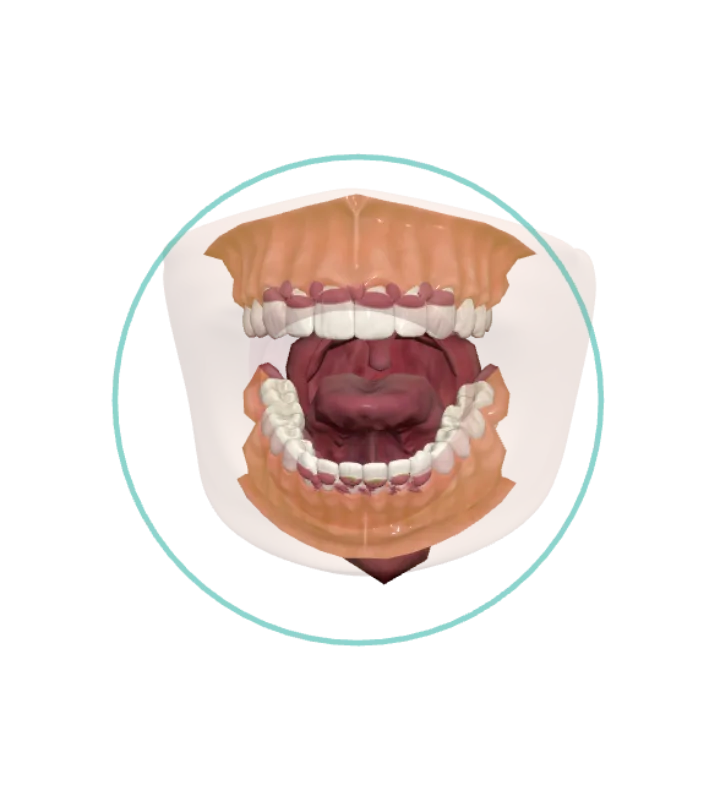
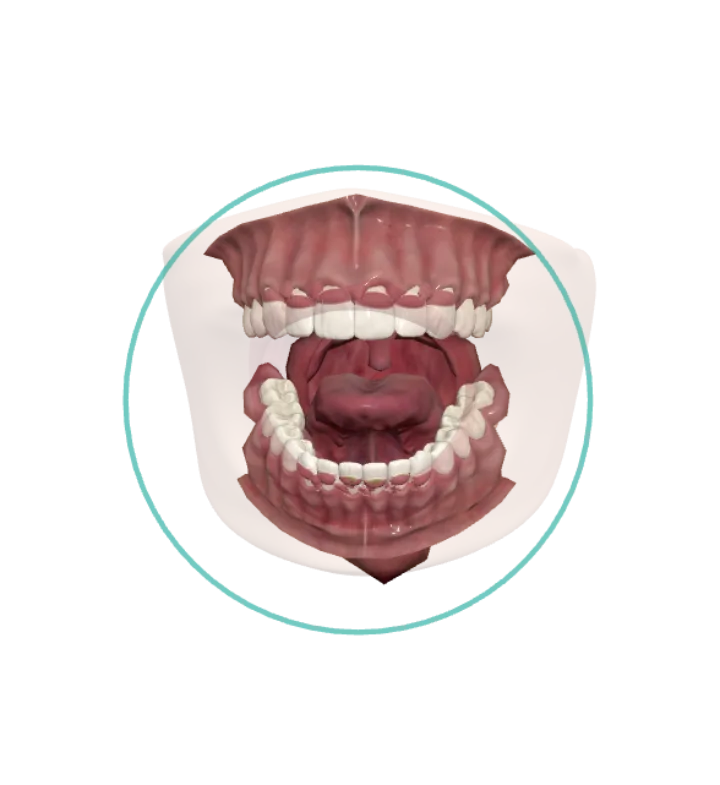
Сайт без сети, «Найди ошибку ИИ» после ответа, кадры карточек без подсветки
- site/sw.js: при первом заходе с интернетом весь сайт ложится в кэш, дальше сначала сеть, без сети — из кэша
- «Найди ошибку ИИ» открывается только после ответа на тест: её разбор выдавал ответ
- кадры карточек сняты без оранжевой подсветки (язык в 7, дёсны в 11)
- отчёт о проверке сайта 25.10 в docs/, решения — в CLAUDE.md

Changed region(s): [[0.1528, 0.1834, 0.8556, 0.8255], [0.3361, 0.4586, 0.7333, 0.7338]]

diff --git a/sluchay.html b/sluchay.html
@@ -133,6 +133,7 @@ button:focus-visible,a:focus-visible{outline:2px solid var(--accent);outline-off
 .line.miss{border-color:var(--bad);background:var(--bad-soft)}
 .line.false{border-color:var(--bad);border-style:dashed}
 .line:disabled{cursor:default}
+.zamok p{margin:0 0 12px}
 #ii-itog{display:flex;flex-direction:column;gap:12px}
 #ii-itog:empty{display:none}
 
@@ -191,6 +192,11 @@ button:focus-visible,a:focus-visible{outline:2px solid var(--accent);outline-off
     <section class="card zadanie" id="p-test" role="tabpanel" aria-labelledby="tab-test"></section>
 
     <section class="card zadanie" id="p-ii" role="tabpanel" aria-labelledby="tab-ii" hidden>
+      <div id="ii-zamok" class="zamok">
+        <p>Сначала ответь на вопрос во вкладке «Выбор препарата»: разбор ошибок ИИ подсказал бы ответ.</p>
+        <div class="actions"><button class="btn" id="k-testu">К выбору препарата</button></div>
+      </div>
+      <div id="ii-telo" class="zadanie">
       <p class="src">Задание: ИИ-ассистент предложил план лечения. Нажми на строки, в которых, по-твоему, есть ошибка, затем «Проверить».</p>
       <div class="ai">
         <div class="ai-head"><span>Ответ ИИ-ассистента</span><span>в демо — пример; в итоговой версии — реальный ответ нейросети с моделью и датой</span></div>
@@ -201,6 +207,7 @@ button:focus-visible,a:focus-visible{outline:2px solid var(--accent);outline-off
         <button class="btn ghost" id="ii-zanovo">Начать заново</button>
       </div>
       <div id="ii-itog" aria-live="polite"></div>
+      </div>
     </section>
   </div>
 </div>
@@ -247,6 +254,7 @@ function vybrat(i) {
   const verno = i === iV;
   otvety[SL.nomer] = { poryadok, i, verno };
   obnovitVybor();
+  zamokII();
   const { verno: v, vsego } = schet();
   const konec = vsego === VSE.length;
   const sled = VSE[VSE.indexOf(SL) + 1];
@@ -271,7 +279,7 @@ function vybrat(i) {
     </div>`;
   const knopka = (id, f) => { const b = $(id); if (b) b.onclick = f; };
   knopka('#dalshe', () => { otkryt(sled.nomer); pokazatNachalo($('.karta')); });
-  knopka('#zanovo', () => { delete otvety[SL.nomer]; obnovitVybor(); nachatTest(); pokazatNachalo($('#p-test')); });
+  knopka('#zanovo', () => { delete otvety[SL.nomer]; obnovitVybor(); nachatTest(); nachatII(); zamokII(); pokazatNachalo($('#p-test')); });
   knopka('#k-ii', () => vkladka('ii'));
   knopka('#vse-zanovo', () => {
     for (const n in otvety) delete otvety[n];
@@ -303,6 +311,7 @@ function otkryt(nomer) {
   obnovitVybor();
   nachatTest();
   nachatII();
+  zamokII();
   history.replaceState(null, '', '#' + SL.nomer);
   window.tekNomer = SL.nomer; // 3D подхватит при загрузке
   document.dispatchEvent(new CustomEvent('sluchay', { detail: SL.nomer }));
@@ -419,6 +428,13 @@ $('#ii-proverit').onclick = () => {
     <p class="src">Вывод для студента: ${esc(VYVOD_II[SL.nomer] || 'ИИ отвечает уверенно и тогда, когда ошибается. Проверяй каждое назначение сам.')}</p>`;
 };
 $('#ii-zanovo').onclick = nachatII;
+// Ошибки ИИ — это неверные варианты теста, а разбор называет верный препарат: до ответа на тест задание закрыто
+function zamokII() {
+  const otkryto = !!otvety[SL.nomer];
+  $('#ii-zamok').hidden = otkryto;
+  $('#ii-telo').hidden = !otkryto;
+}
+$('#k-testu').onclick = () => vkladka('test');
 
 // ---------- Вкладки ----------
 const VKLADKI = [...document.querySelectorAll('nav [role=tab]')];
@@ -450,6 +466,8 @@ VKLADKI.forEach((b, i) => {
 otkryt(+location.hash.slice(1) || VSE[0].nomer);
 if (location.protocol === 'file:') {
   $('#model').dataset.tekst = '3D не открывается с диска. Запусти в папке site: python -m http.server — и открой http://localhost:8000';
+} else if ('serviceWorker' in navigator) {
+  navigator.serviceWorker.register('sw.js'); // кэш для работы без сети
 }
 </script>
 

diff --git a/sw.js b/sw.js
@@ -1,0 +1,50 @@
+// Кэш для работы без сети: на кафедре интернета может не быть.
+// При первом заходе с сетью сайт целиком (страницы, 3D-модель, three.js, шрифты, кадры случаев) ложится в кэш.
+// Дальше сначала сеть — правки видны сразу; сети нет или она дольше ZHDAT мс не отвечает — отдаём из кэша.
+const KESH = 'dentalis';
+const ZHDAT = 4000;
+
+// Кадры карточек — по номерам случаев из тех же данных, что у страниц: новый случай попадёт в кэш сам
+self.window = self;
+importScripts('data/sluchai.js');
+const FAYLY = [
+  './', 'index.html', 'sluchay.html', 'data/sluchai.js', '3d/prosmotr.js', 'models/polost_rta.glb',
+  'vendor/three/three.module.js', 'vendor/three/three.core.js',
+  'vendor/three/addons/loaders/GLTFLoader.js', 'vendor/three/addons/controls/OrbitControls.js',
+  'vendor/three/addons/utils/BufferGeometryUtils.js', 'vendor/three/addons/utils/SkeletonUtils.js',
+  'vendor/shrifty/shrifty.css', 'vendor/shrifty/golos-kirillica.woff2', 'vendor/shrifty/golos-latinica.woff2',
+  'vendor/shrifty/unbounded-kirillica.woff2', 'vendor/shrifty/unbounded-latinica.woff2',
+  ...self.SLUCHAI_DANNYE.sluchai.map((s) => `kartinki/sluchay-${s.nomer}.webp`),
+];
+
+const bezPoiska = (url) => url.split(/[?#]/)[0]; // ?v=… для проверки свежести — тот же файл
+
+self.addEventListener('install', (e) => {
+  self.skipWaiting();
+  // по одному: файл, которого нет (случай без кадра), не должен сорвать весь кэш
+  e.waitUntil(caches.open(KESH).then((kesh) => Promise.allSettled(FAYLY.map((f) => kesh.add(new Request(f, { cache: 'reload' }))))));
+});
+
+self.addEventListener('activate', (e) => e.waitUntil(self.clients.claim()));
+
+self.addEventListener('fetch', (e) => {
+  const z = e.request;
+  if (z.method !== 'GET' || !z.url.startsWith(self.registration.scope)) return;
+  const klyuch = bezPoiska(z.url);
+  const kesh = caches.open(KESH);
+  const izSeti = fetch(z);
+  // свежий ответ — в кэш; копию снимаем сразу, пока страница не начала читать ответ
+  e.waitUntil(izSeti.then((o) => {
+    if (o.status !== 200) return;
+    const kopiya = o.clone();
+    return kesh.then((k) => k.put(klyuch, kopiya));
+  }).catch(() => {}));
+  e.respondWith((async () => {
+    const izKesha = await (await kesh).match(klyuch);
+    if (!izKesha) return izSeti;
+    return Promise.race([
+      izSeti.then((o) => (o.ok ? o : izKesha), () => izKesha),
+      new Promise((r) => setTimeout(() => r(izKesha), ZHDAT)),
+    ]);
+  })());
+});

diff --git a/index.html b/index.html
@@ -253,6 +253,9 @@ document.getElementById('setka').innerHTML = VSE.map((s) => `
       <span class="otkryt">Открыть случай →</span>
     </div>
   </a></li>`).join('');
+
+// Кэш для работы без сети (sw.js): с первого захода с интернетом сайт открывается и офлайн
+if ('serviceWorker' in navigator && location.protocol !== 'file:') navigator.serviceWorker.register('sw.js');
 </script>
 </body>
 </html>
